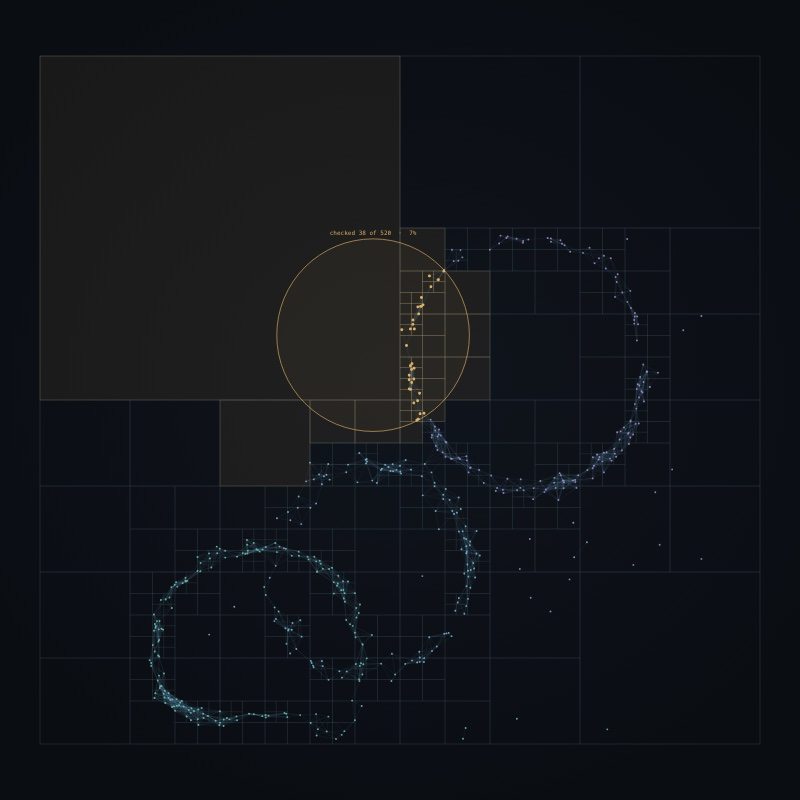
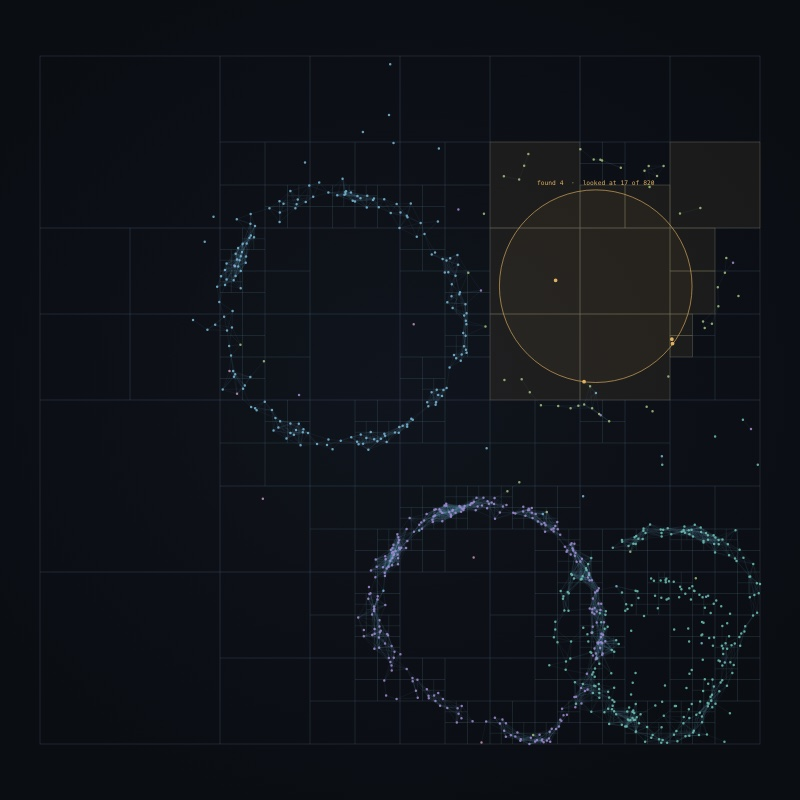
quadtree: clearer at a glance — search circle tours the flocks; headline compares points looked at with the total
Regenerated from the Data Structures project after a review of every scene's
first minute: fuller stage, larger text, the payoff sooner, and phone taps that
show within a second (the in-flight operation completes instantly first).

diff --git a/experiences/quadtree/web/js/scenes/quadtree.js b/experiences/quadtree/web/js/scenes/quadtree.js
@@ -172,12 +172,31 @@
       }
       if (dt > 0 || !this.root) this.build();
 
-      // query position: the mouse if it's here, otherwise a slow Lissajous roam
+      // query position: the mouse if it's here; otherwise it tours the flocks,
+      // circling each one's attractor at an offset so it sweeps through the crowd
       const q = this.q;
       if (this.mouse && DS.time - this.mouse.t < 6) { q.x = DS.ease(q.x, this.mouse.x, dt || 0.016, 12); q.y = DS.ease(q.y, this.mouse.y, dt || 0.016, 12); }
       else if (dt > 0) {
-        q.x = DS.ease(q.x, A * (0.5 + 0.4 * Math.sin(this.t * 0.11)), dt, 1.5);
-        q.y = DS.ease(q.y, 0.5 + 0.34 * Math.sin(this.t * 0.17 + 1), dt, 1.5);
+        // where each flock actually is (its points trail their attractor)
+        const na = this.att.length, cx = new Float64Array(na), cy = new Float64Array(na), cn = new Float64Array(na);
+        for (const p of this.pts) { const f = p.k % na; cx[f] += p.x; cy[f] += p.y; cn[f]++; }
+        this.tourT = (this.tourT || 0) - dt;
+        if (this.tourT <= 0 || this.tour === undefined || this.tour >= na || cn[this.tour] < 25) {
+          let nx = ((this.tour === undefined ? DS.ri(0, na - 1) : this.tour) + 1) % na;
+          for (let j = 0; j < na && cn[nx] < 25; j++) nx = (nx + 1) % na;
+          this.tour = nx;
+          this.tourT = 7 + Math.random() * 3;
+        }
+        const f = this.tour, ph = this.t * 0.5;
+        const fx = cn[f] ? cx[f] / cn[f] : A / 2, fy = cn[f] ? cy[f] / cn[f] : 0.5;
+        const tx = DS.clamp(fx + 0.08 * Math.cos(ph), q.r * 0.6, A - q.r * 0.6);
+        const ty = DS.clamp(fy + 0.08 * Math.sin(ph), q.r * 0.6, 1 - q.r * 0.6);
+        // a gentle speed limit so the hop between flocks glides rather than lunges
+        const e = 1 - Math.exp(-1.6 * dt);
+        let mx = (tx - q.x) * e, my = (ty - q.y) * e;
+        const lim = 0.5 * dt, d = Math.hypot(mx, my);
+        if (d > lim) { mx *= lim / d; my *= lim / d; }
+        q.x += mx; q.y += my;
       }
       this.visited = [];
       this.res = { checked: 0, hits: [] };
@@ -265,7 +284,7 @@
       }
 
       // points, batched by flock
-      const pr = 2.3 * u;
+      const pr = 3 * u;
       for (let f = 0; f < FLOCK.length; f++) {
         g.beginPath();
         for (const p of this.pts) {
@@ -285,15 +304,25 @@
         g.fillStyle = C.amber;
         g.fill();
         DS.circle(g, X(q.x), Y(q.y), q.r * k, DS.rgba(C.amber, 0.05), DS.rgba(C.amber, 0.85), 1.8 * u);
-        const pct = this.pts.length ? Math.round((100 * this.res.checked) / this.pts.length) : 0;
-        DS.text(g, `checked ${this.res.checked} of ${this.pts.length}  ·  ${pct}%`, X(q.x), Y(q.y) - q.r * k - 12 * u,
-          { size: 12 * u, mono: true, color: C.amber });
+        const lab = `found ${this.res.hits.length}  ·  looked at ${this.res.checked} of ${this.pts.length}`;
+        g.font = DS.font(15 * u, { mono: true, weight: 500 });
+        const hw = g.measureText(lab).width / 2 + 4 * u;
+        const lx = DS.clamp(X(q.x), S.x + hw, S.x1 - hw), above = Y(q.y) - q.r * k - 16 * u > S.y + 4 * u;
+        const ly = above ? Y(q.y) - q.r * k - 16 * u : Y(q.y) + q.r * k + 18 * u;
+        DS.text(g, lab, lx, ly,
+          { size: 15 * u, mono: true, weight: 500, color: C.amber });
       }
       this.linkCount = links;
     },
 
     stats() {
-      const n = this.pts.length; return [{ k: 'points', v: String(n) }, { k: 'squares', v: String(this.cells || 0) }, { k: 'of points checked to answer the search', v: this.q.on && n ? `${Math.round((100 * this.res.checked) / n)}%` : '—', accent: true }];
+      // Headline: what the tree looked at against what a plain scan must look at (everything).
+      const n = this.pts.length, on = this.q.on;
+      return [
+        { k: 'found inside the circle', v: on ? String(this.res.hits.length) : '—' },
+        { k: 'squares', v: String(this.cells || 0) },
+        { k: 'points looked at · checking every point', v: on && n ? `${this.res.checked} vs ${n}` : '—', accent: true },
+      ];
     },
 
     resize() {

diff --git a/experiences/quadtree/web/js/main.js b/experiences/quadtree/web/js/main.js
@@ -247,6 +247,10 @@
       if (st.pending >= 0 || !(s.actions || []).some((a) => a.id === id)) return false;
       activity();
       st.autoHold = st.t + 14;   // let the visitor's op play out before autoplay resumes
+      // A tap must show within a second: finish whatever is mid-flight and start
+      // the visitor's action now. Scenes that manage interruption themselves
+      // (a scripted story, say) set `preempt: false`.
+      if (s.preempt !== false && s.steps && s.steps.preempt) s.steps.preempt();
       s.act(id);
       return true;
     },
@@ -396,7 +400,7 @@
   renderMode();
   const warp = Math.min(600, parseFloat(params.get('warp')) || 0);
   for (let t = 0; t < warp; t += 1 / 30) { DS.time = st.t += 1 / 30; cur().update(1 / 30, true); }
-  if (warp) st.fade = 1;
+  if (warp) { st.fade = 1; if (opPending) { const [t, tone] = opPending; opPending = null; showOp(t, tone); } }
   if (params.has('clean')) document.querySelectorAll('.hud').forEach((e) => { e.style.display = 'none'; });
   requestAnimationFrame(frame);
 })();

diff --git a/experiences/quadtree/web/js/core.js b/experiences/quadtree/web/js/core.js
@@ -138,6 +138,21 @@
     clear() { this.q.length = 0; this.wait = 0; }
     run(job) { this.q.push(job); return this; }
     hold(s) { this.q.push(() => s); return this; }
+    // Make room for a visitor: finish the operation in flight instantly (so the
+    // structure is never left half-changed), and drop queued work that hasn't
+    // started. Generators are run to completion with their holds skipped.
+    preempt() {
+      const head = this.q[0];
+      this.q.length = 0;
+      this.wait = 0;
+      if (head && typeof head.next === 'function') {
+        for (let guard = 0; guard < 100000; guard++) {
+          const { value, done } = head.next();
+          if (done) break;
+          if (value && typeof value.next === 'function') { /* nested generator objects are driven by yield* already */ }
+        }
+      }
+    }
     update(dt) {
       this.wait -= dt;
       let guard = 0;
